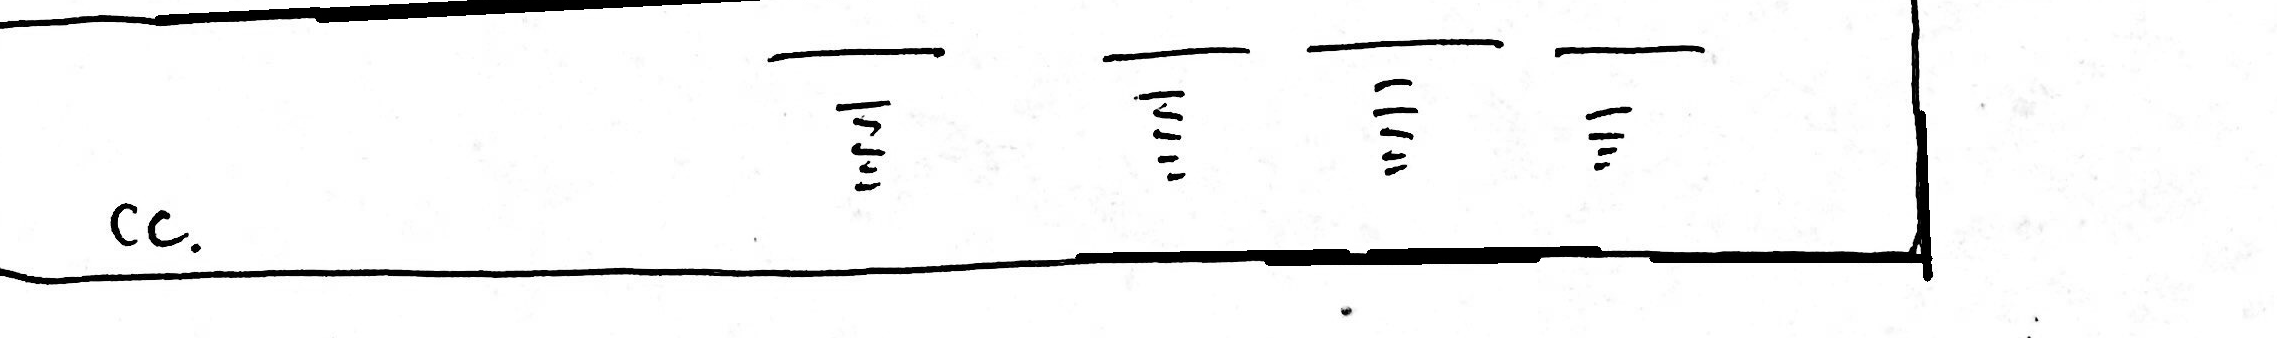
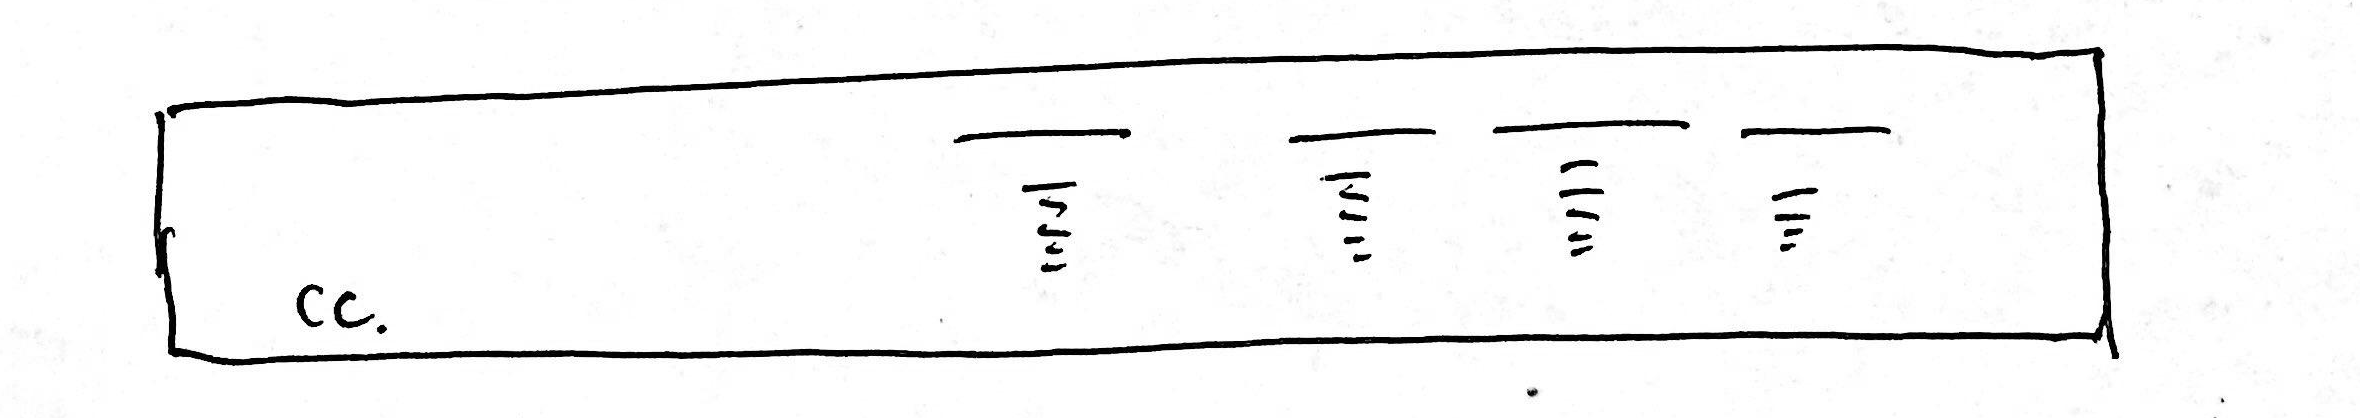
# [Done]  Reformat and resize the image to get consistent result and image crop # [Done]  Crop image with the x, y, w, h adjust. # [Done]  Save the crop of the source file instead of the bolded one # [] Image enhancer on the original Image

diff --git a/Server/src/ImageProcessing/OpenCVBoxDetection.py b/Server/src/ImageProcessing/OpenCVBoxDetection.py
@@ -6,10 +6,17 @@ import numpy as np
 import matplotlib.pyplot as plt
 from src.Blocks.Blocks import addBlock, getBlockByID, blocks
 
-Image_Debug = False
-Console_Logger = False
+# from PIL import Image, ImageEnhance
+# im = Image.open("User Upload/IMG_1450.JPG")
+# enhancer = ImageEnhance.Brightness(im)
+# temp = ImageEnhance.Sharpness(im)
+# enhanced_im = temp.enhance(10.0)
+# enhanced_im.save("enhanced_sample3.png")
 
-# This is just for the py plot display (debug purposes)
+Image_Debug = True
+Console_Logger = True
+
+# This is just for the py plotting results (debug purposes)
 fig = plt.figure(figsize=(8, 8))
 columns = 4
 rows = 4
@@ -52,7 +59,9 @@ def line_Bolding(imgpath):
     cv2.destroyAllWindows()
 
 
-def box_extraction(img_for_box_extraction_path, cropped_dir_path):
+def box_extraction(original_image_path, img_for_box_extraction_path, cropped_dir_path):
+    orginal_image = cv2.imread(original_image_path, 0)
+
     img = cv2.imread(img_for_box_extraction_path, 0)  # Read the image
     # img = img_for_box_extraction_path
     # cv2.imshow(img)
@@ -125,13 +134,17 @@ def box_extraction(img_for_box_extraction_path, cropped_dir_path):
     for i in range(len(exported_contours) - 1, 0, -1):
         for j in range(i):
             if Console_Logger: print(exported_contours[i][0])
-            if abs(exported_contours[i][0] - exported_contours[j][0]) <= 50 and abs(
-                    exported_contours[i][1] - exported_contours[j][1]) <= 50:
+            # Compare X axis and Y see if it is similar crop
+            if abs(exported_contours[i][0] - exported_contours[j][0]) <= 80 and abs(
+                    exported_contours[i][1] - exported_contours[j][1]) <= 80:
                 # Similar item choose bigger frame and save to the list.
                 if Console_Logger: print("First Condition")
+
+                # Choose the bigger crop and pop the smaller one
                 if ((exported_contours[j][2] + exported_contours[j][3]) > exported_contours[i][2] +
                         exported_contours[i][3]):
                     exported_contours.pop(i)
+
 
     # Cropping image and create single block instances
     if Console_Logger: print(exported_contours)
@@ -142,36 +155,68 @@ def box_extraction(img_for_box_extraction_path, cropped_dir_path):
         y = exported_contours[i][1]
         w = exported_contours[i][2]
         h = exported_contours[i][3]
-        new_img = img[y:y + h, x:x + w]
 
+        # The crop is too tight, this adjusts with bigger border
+        x -= 200
+        y -= 80
+        w += 100
+        h += 80
+
+        # Cropping the original image
+        new_img = orginal_image[y:y + h, x:x + w]
         createSingleBlockInstance(idx, x, y, cropped_dir_path + str(idx) + '.png')
 
+        cv2.imwrite(cropped_dir_path + str(idx) + '.png', new_img)
+        # Display cropped image onto the matplot
         if Image_Debug: fig.add_subplot(rows, columns, idx)
         if Image_Debug: plt.imshow(new_img)
 
-        cv2.imwrite(cropped_dir_path + str(idx) + '.png', new_img)
-
     if Image_Debug: plt.show()
-    if Image_Debug: cv2.imshow('boxed', img)
+    # if Image_Debug: cv2.imshow('boxed', img)
     cv2.waitKey(0)
     cv2.destroyAllWindows()
 
 
-# call on an image with path and cropped output dir
-def demo():
-    # This path need to be refactored
-    img = 'User Upload/IMG_1536.JPG'
-    imageOutputFileDirectory = "cropped/"
-
-    # Delete images from previous session
-    files = glob.glob(imageOutputFileDirectory + "*")
+### !!!!!! Be mindful all the files under that dir will be deleted
+def clearImageDir(folder_path):
+    files = glob.glob(folder_path + "*")
     for f in files:
         os.remove(f)
+
+
+def image_Rescale(image_Path):
+    size = 3000, 2000
+    from PIL import Image
+    im = Image.open(image_Path)
+    im.thumbnail(size)
+    new_path = "User Upload/" + "_resized.jpg"
+    im.save(new_path)
+    return new_path
+
+def move_File_To_User_Upload(original, distnation):
+    current = original
+    newDistnation = distnation
+    os.rename(current, newDistnation)
+
+
+# file path must be in User Upload!
+def execute_Box_Detection(fileName_mustBeInUserUpload):
+
+    # file_name = "IMG_1450
+    # move_File_To_User_Upload(fileName_mustBeInUserUpload, "'User Upload/userUpload.jpg")
+
+    img = 'User Upload/' + fileName_mustBeInUserUpload
+    imageOutputFileDirectory = "cropped/"
+    # Delete images from previous session
+    clearImageDir(imageOutputFileDirectory)
+
+    img = image_Rescale(img)
+    line_Bolding(img)
+    box_extraction(img, "DebugImagesDir/houghlines5.jpg", imageOutputFileDirectory)
+    # box_extraction(img, imageOutputFileDirectory)
+
     if Console_Logger:
-        line_Bolding(img)
-        box_extraction("DebugImagesDir/houghlines5.jpg", imageOutputFileDirectory)
-        print()
-        print()
+        print("==================Image Cropping Create Single Blocks=====================")
         print(blocks)
 
         for i in blocks:
@@ -182,4 +227,9 @@ def demo():
             print("========================================================================")
 
 
-demo()
+execute_Box_Detection("IMG_1536.JPG")
+# To-do
+# [Done]  Reformat and resize the image to get consistent result and image crop
+# [Done]  Crop image with the x, y, w, h adjust.
+# [Done]  Save the crop of the source file instead of the bolded one
+# [] Image enhancer on the original Image

diff --git a/Server/src/CodeInterpreter/CodeConstructor.py b/Server/src/CodeInterpreter/CodeConstructor.py
@@ -1,0 +1,14 @@
+from yattag import Doc
+
+doc, tag, text = Doc().tagtext()
+
+with tag('html'):
+    with tag('body'):
+        with tag('p', id='main'):
+            text('some text')
+        with tag('a', href='/my-url'):
+            text('some link')
+
+result = doc.getvalue()
+
+print(result)
